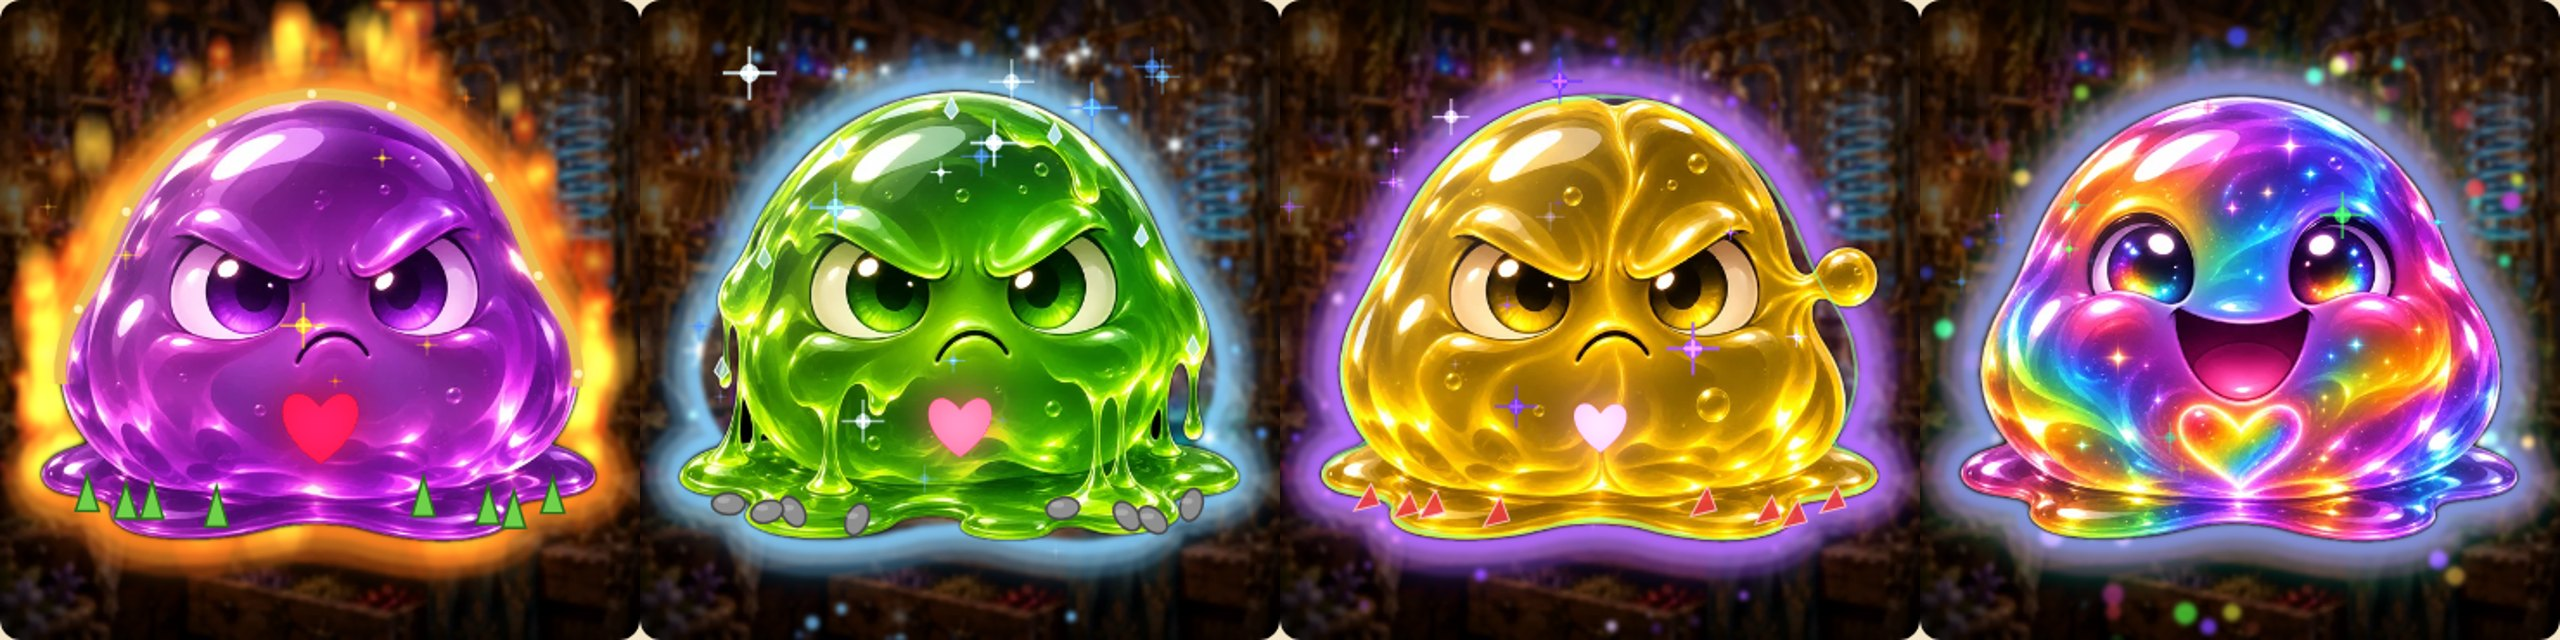
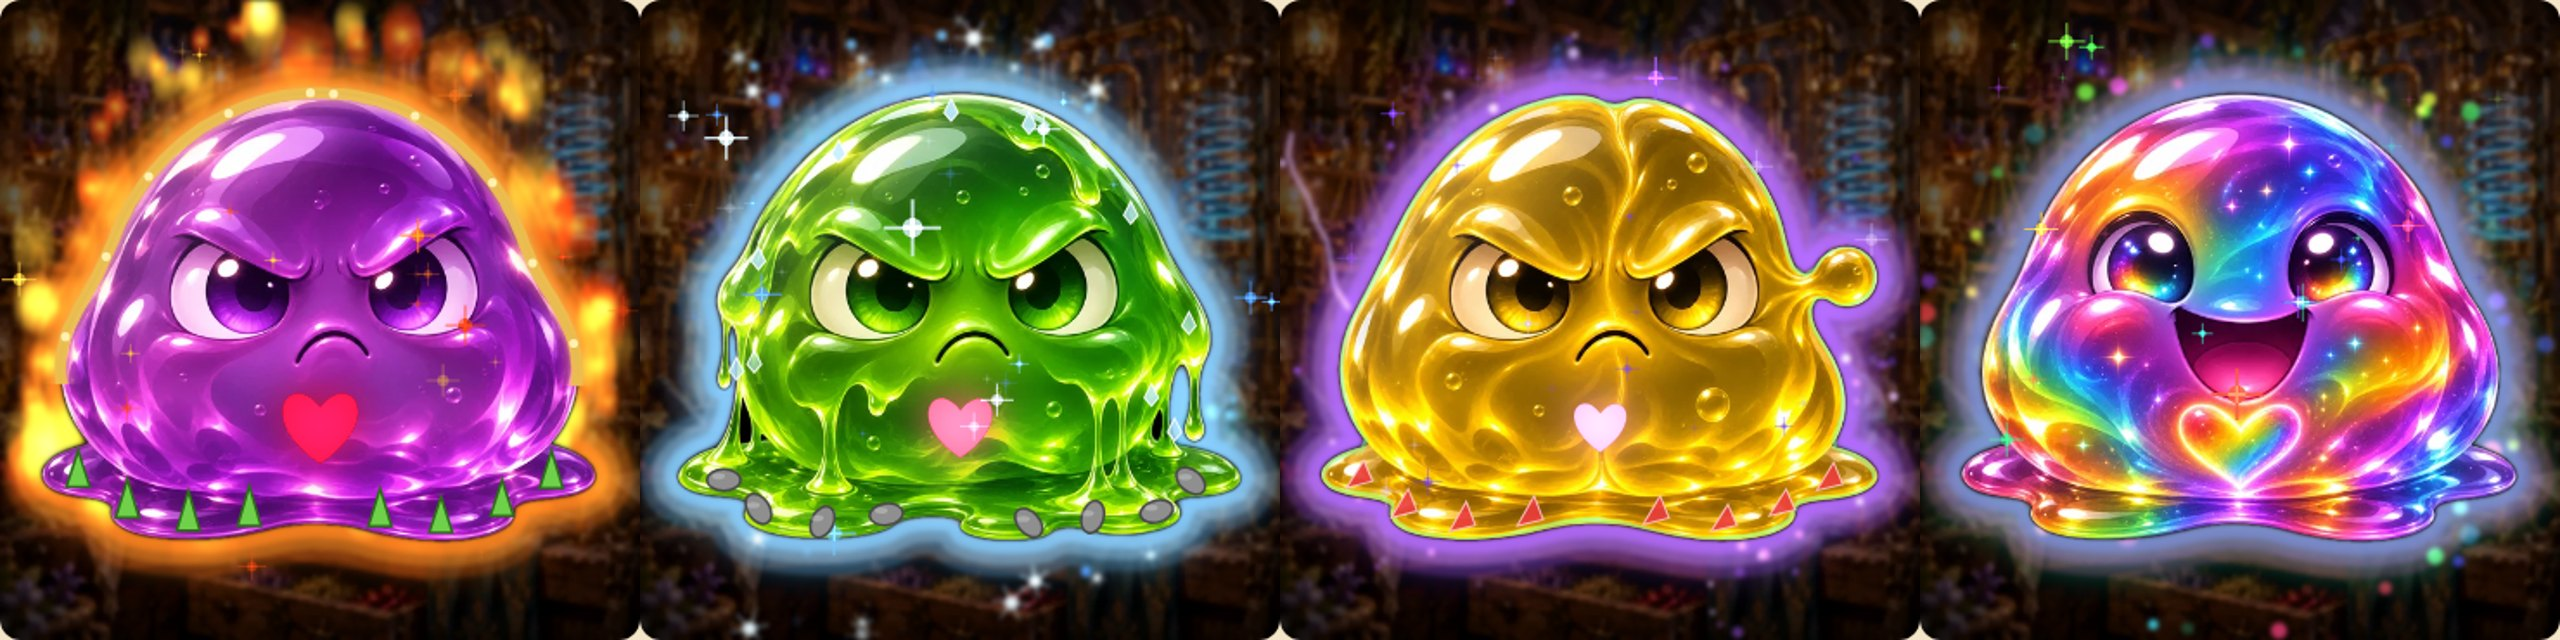
Zoltan's Flask: glow, rim and ichor follow each Flubb's own shape
Claude-Session: https://claude.ai/code/session_01QqMC3jV4Jm9bLjV1D99fiy

diff --git a/oneshots/this-and-that/flask-game/index.html b/oneshots/this-and-that/flask-game/index.html
@@ -104,6 +104,7 @@ const save=()=>{try{localStorage.setItem('zoltan-flask-v1',JSON.stringify(S))}ca
 
 const ORDER=['aura','essence','ichor','heart','BASE','FACE','skin','dust'];
 const ANIM={heart:'hrt'};
+const SILE={"bouncing":{"pts":[[0.4828,0.1391],[0.4688,0.1406],[0.4547,0.1422],[0.4406,0.1438],[0.4266,0.1469],[0.4125,0.15],[0.3984,0.1547],[0.3844,0.1594],[0.3703,0.1656],[0.3562,0.1719],[0.3422,0.1797],[0.3281,0.1875],[0.3141,0.1953],[0.3,0.2062],[0.2859,0.2172],[0.2719,0.2297],[0.2578,0.2438],[0.2453,0.2578],[0.2328,0.2719],[0.2234,0.2859],[0.2141,0.3],[0.2047,0.3141],[0.1984,0.3281],[0.1906,0.3422],[0.1844,0.3562],[0.1797,0.3703],[0.1734,0.3844],[0.1672,0.3984],[0.1609,0.4125],[0.1547,0.4266],[0.1469,0.4406],[0.1391,0.4547],[0.1312,0.4688],[0.1234,0.4828],[0.1172,0.4969],[0.1094,0.5109],[0.1047,0.525],[0.1016,0.5391],[0.0984,0.5531],[0.0969,0.5672],[0.0969,0.5812],[0.0984,0.5953],[0.1,0.6094],[0.1031,0.6234],[0.1078,0.6375],[0.1141,0.6516],[0.1219,0.6656],[0.1312,0.6797],[0.1344,0.6938],[0.1203,0.6984],[0.1062,0.7031],[0.0922,0.7109],[0.0781,0.7219],[0.0688,0.7359],[0.0703,0.75],[0.0812,0.7625],[0.0953,0.7703],[0.1094,0.7734],[0.1234,0.7766],[0.1375,0.7781],[0.1516,0.7797],[0.1656,0.7844],[0.1766,0.7953],[0.1781,0.8094],[0.1891,0.8219],[0.2031,0.8297],[0.2172,0.8344],[0.2312,0.8375],[0.2453,0.8391],[0.2594,0.8406],[0.2734,0.8422],[0.2875,0.8422],[0.3016,0.8422],[0.3156,0.8422],[0.3297,0.8422],[0.3438,0.8406],[0.3578,0.8391],[0.3719,0.8375],[0.3859,0.8344],[0.4,0.8312],[0.4141,0.8281],[0.4281,0.825],[0.4422,0.8219],[0.4562,0.8203],[0.4703,0.8188],[0.4844,0.8172],[0.4984,0.8172],[0.5125,0.8188],[0.5266,0.8188],[0.5406,0.8203],[0.5547,0.8234],[0.5688,0.8266],[0.5828,0.8312],[0.5969,0.8344],[0.6109,0.8359],[0.625,0.8391],[0.6391,0.8406],[0.6531,0.8422],[0.6672,0.8422],[0.6812,0.8438],[0.6953,0.8438],[0.7094,0.8422],[0.7234,0.8422],[0.7375,0.8391],[0.7516,0.8375],[0.7656,0.8328],[0.7797,0.8266],[0.7938,0.8172],[0.8,0.8031],[0.8031,0.7891],[0.8172,0.7828],[0.8312,0.7797],[0.8453,0.7781],[0.8594,0.7766],[0.8734,0.7734],[0.8875,0.7719],[0.9016,0.7672],[0.9156,0.7594],[0.925,0.7453],[0.9234,0.7312],[0.9125,0.7172],[0.8984,0.7062],[0.8844,0.7],[0.8703,0.6953],[0.8594,0.6875],[0.8703,0.6734],[0.8781,0.6594],[0.8844,0.6453],[0.8906,0.6312],[0.8938,0.6172],[0.8969,0.6031],[0.8969,0.5891],[0.8984,0.575],[0.8969,0.5609],[0.8953,0.5469],[0.8922,0.5328],[0.8875,0.5188],[0.8812,0.5047],[0.875,0.4906],[0.8672,0.4766],[0.8594,0.4625],[0.85,0.4484],[0.8422,0.4344],[0.8344,0.4203],[0.8281,0.4062],[0.8219,0.3922],[0.8156,0.3781],[0.8109,0.3641],[0.8047,0.35],[0.7984,0.3359],[0.7906,0.3219],[0.7844,0.3078],[0.775,0.2938],[0.7656,0.2797],[0.7547,0.2656],[0.7438,0.2516],[0.7297,0.2375],[0.7156,0.2234],[0.7016,0.2109],[0.6875,0.2],[0.6734,0.1906],[0.6594,0.1828],[0.6453,0.175],[0.6312,0.1672],[0.6172,0.1609],[0.6031,0.1562],[0.5891,0.1516],[0.575,0.1484],[0.5609,0.1453],[0.5469,0.1422],[0.5328,0.1406],[0.5188,0.1406],[0.5047,0.1391],[0.4906,0.1391]],"cx":0.4963,"cy":0.526},"sticky":{"pts":[[0.4828,0.1391],[0.4656,0.1406],[0.4484,0.1438],[0.4312,0.1469],[0.4141,0.15],[0.3969,0.1547],[0.3797,0.1609],[0.3625,0.1688],[0.3453,0.1781],[0.3281,0.1875],[0.3109,0.1984],[0.2938,0.2109],[0.2766,0.225],[0.2594,0.2406],[0.2438,0.2578],[0.2297,0.275],[0.2156,0.2922],[0.2031,0.3094],[0.1922,0.3266],[0.1828,0.3438],[0.175,0.3609],[0.1688,0.3781],[0.1594,0.3953],[0.1469,0.4125],[0.1344,0.4297],[0.125,0.4469],[0.1219,0.4641],[0.1234,0.4812],[0.1281,0.4984],[0.1312,0.5156],[0.1312,0.5328],[0.1312,0.55],[0.1281,0.5672],[0.1234,0.5844],[0.1266,0.6016],[0.1422,0.6],[0.1438,0.5828],[0.1406,0.5656],[0.1391,0.5484],[0.1391,0.5312],[0.1422,0.5141],[0.15,0.5203],[0.1531,0.5375],[0.1547,0.5547],[0.1531,0.5719],[0.1531,0.5891],[0.1516,0.6062],[0.15,0.6234],[0.1469,0.6406],[0.1422,0.6578],[0.1359,0.675],[0.1266,0.6922],[0.1109,0.7016],[0.0938,0.7094],[0.0766,0.7219],[0.0641,0.7391],[0.0672,0.7562],[0.0844,0.7672],[0.1016,0.7719],[0.1188,0.775],[0.1359,0.7766],[0.1531,0.7781],[0.1703,0.7859],[0.1656,0.8031],[0.175,0.8203],[0.1922,0.8297],[0.2094,0.8344],[0.2266,0.8375],[0.2438,0.8391],[0.2609,0.8406],[0.2781,0.8406],[0.2953,0.8406],[0.3125,0.8406],[0.3297,0.8391],[0.3469,0.8359],[0.3641,0.8328],[0.3812,0.8281],[0.3984,0.8188],[0.4156,0.8109],[0.4328,0.8078],[0.45,0.8062],[0.4672,0.8062],[0.4844,0.8078],[0.5,0.8156],[0.5078,0.8312],[0.525,0.8375],[0.5422,0.8406],[0.5594,0.8422],[0.5766,0.8422],[0.5938,0.8422],[0.6109,0.8406],[0.6281,0.8375],[0.6453,0.8281],[0.6625,0.8234],[0.6797,0.8234],[0.6969,0.8266],[0.7141,0.8312],[0.7312,0.8328],[0.7484,0.8328],[0.7656,0.8328],[0.7828,0.8312],[0.8,0.8281],[0.8172,0.8219],[0.8344,0.8125],[0.8406,0.7953],[0.8375,0.7781],[0.8547,0.7734],[0.8719,0.7734],[0.8891,0.7703],[0.9062,0.7672],[0.9234,0.7609],[0.9328,0.7438],[0.925,0.7266],[0.9078,0.7125],[0.8906,0.7047],[0.8734,0.7],[0.8562,0.6953],[0.8391,0.6922],[0.8281,0.6781],[0.8234,0.6609],[0.8219,0.6438],[0.8219,0.6266],[0.825,0.6094],[0.8281,0.5922],[0.8328,0.575],[0.8469,0.5703],[0.8531,0.5875],[0.8562,0.6047],[0.8562,0.6219],[0.8531,0.6391],[0.8484,0.6562],[0.8469,0.6734],[0.8609,0.6859],[0.8766,0.675],[0.875,0.6578],[0.8703,0.6406],[0.8688,0.6234],[0.8688,0.6062],[0.8703,0.5891],[0.8734,0.5719],[0.8797,0.5547],[0.8859,0.5375],[0.8859,0.5203],[0.8844,0.5031],[0.8781,0.4859],[0.8703,0.4688],[0.8609,0.4516],[0.8484,0.4344],[0.8375,0.4172],[0.8281,0.4],[0.8188,0.3828],[0.8109,0.3656],[0.8031,0.3484],[0.7953,0.3312],[0.7859,0.3141],[0.775,0.2969],[0.7641,0.2797],[0.75,0.2625],[0.7344,0.2453],[0.7172,0.2281],[0.7,0.2125],[0.6828,0.1984],[0.6656,0.1875],[0.6484,0.1766],[0.6312,0.1688],[0.6141,0.1609],[0.5969,0.1547],[0.5797,0.15],[0.5625,0.1453],[0.5453,0.1422],[0.5281,0.1406],[0.5109,0.1391],[0.4938,0.1391]],"cx":0.4967,"cy":0.5239},"dividing":{"pts":[[0.4375,0.1422],[0.4219,0.1453],[0.4062,0.15],[0.3906,0.1547],[0.375,0.1594],[0.3594,0.1672],[0.3438,0.175],[0.3281,0.1828],[0.3125,0.1938],[0.2969,0.2047],[0.2812,0.2188],[0.2656,0.2328],[0.2516,0.2484],[0.2391,0.2641],[0.2266,0.2797],[0.2156,0.2953],[0.2062,0.3109],[0.1969,0.3266],[0.1891,0.3422],[0.1812,0.3578],[0.1734,0.3734],[0.1672,0.3891],[0.1594,0.4047],[0.1516,0.4203],[0.1438,0.4359],[0.1359,0.4516],[0.1281,0.4672],[0.1203,0.4828],[0.1125,0.4984],[0.1062,0.5141],[0.1016,0.5297],[0.0984,0.5453],[0.0969,0.5609],[0.0953,0.5766],[0.0969,0.5922],[0.0984,0.6078],[0.1016,0.6234],[0.1078,0.6391],[0.1141,0.6547],[0.1234,0.6703],[0.1344,0.6859],[0.1297,0.6984],[0.1141,0.7031],[0.0984,0.7094],[0.0828,0.7188],[0.0703,0.7328],[0.0688,0.7484],[0.0812,0.7641],[0.0969,0.7703],[0.1125,0.775],[0.1281,0.7766],[0.1438,0.7797],[0.1594,0.7828],[0.175,0.7906],[0.175,0.8062],[0.1844,0.8219],[0.2,0.8312],[0.2156,0.8359],[0.2312,0.8391],[0.2469,0.8406],[0.2625,0.8422],[0.2781,0.8438],[0.2938,0.8438],[0.3094,0.8438],[0.325,0.8422],[0.3406,0.8406],[0.3562,0.8391],[0.3719,0.8359],[0.3875,0.8344],[0.4031,0.8297],[0.4188,0.8266],[0.4344,0.8234],[0.45,0.8203],[0.4656,0.8188],[0.4812,0.8172],[0.4969,0.8172],[0.5125,0.8188],[0.5281,0.8188],[0.5438,0.8219],[0.5594,0.825],[0.575,0.8281],[0.5906,0.8312],[0.6062,0.8344],[0.6219,0.8375],[0.6375,0.8391],[0.6531,0.8422],[0.6688,0.8422],[0.6844,0.8438],[0.7,0.8422],[0.7156,0.8422],[0.7312,0.8406],[0.7469,0.8375],[0.7625,0.8344],[0.7781,0.8266],[0.7938,0.8172],[0.8016,0.8016],[0.8078,0.7875],[0.8234,0.7828],[0.8391,0.7797],[0.8547,0.7781],[0.8703,0.7766],[0.8859,0.7734],[0.9016,0.7688],[0.9172,0.7594],[0.9281,0.7453],[0.925,0.7297],[0.9125,0.7156],[0.8969,0.7062],[0.8812,0.7],[0.8656,0.6953],[0.8656,0.6812],[0.8719,0.6656],[0.8766,0.65],[0.8781,0.6344],[0.8781,0.6188],[0.8766,0.6031],[0.8734,0.5875],[0.8672,0.5719],[0.8609,0.5562],[0.8516,0.5406],[0.8422,0.525],[0.8328,0.5094],[0.8281,0.4938],[0.8266,0.4781],[0.8344,0.4625],[0.85,0.4625],[0.8656,0.4719],[0.8812,0.4734],[0.8969,0.4703],[0.9125,0.4609],[0.9234,0.4453],[0.9266,0.4297],[0.925,0.4141],[0.9188,0.3984],[0.9031,0.3844],[0.8875,0.3797],[0.8719,0.3797],[0.8562,0.3844],[0.8406,0.3969],[0.8297,0.4125],[0.8156,0.4219],[0.8,0.4109],[0.7938,0.3953],[0.7891,0.3797],[0.7844,0.3641],[0.7812,0.3484],[0.7766,0.3328],[0.7703,0.3172],[0.7625,0.3016],[0.7547,0.2859],[0.7453,0.2703],[0.7344,0.2547],[0.7219,0.2391],[0.7078,0.2234],[0.6922,0.2078],[0.6766,0.1953],[0.6609,0.1844],[0.6453,0.175],[0.6297,0.1656],[0.6141,0.1578],[0.5984,0.1531],[0.5828,0.1484],[0.5672,0.1469],[0.5516,0.1469],[0.5359,0.1516],[0.5203,0.1547],[0.5047,0.1516],[0.4891,0.1453],[0.4734,0.1422],[0.4578,0.1422],[0.4422,0.1422]],"cx":0.4937,"cy":0.5262}};
 const SIL={"ooze":{"pts":[[0.4844,0.1391],[0.4672,0.1406],[0.45,0.1438],[0.4328,0.1469],[0.4156,0.15],[0.3984,0.1547],[0.3812,0.1609],[0.3641,0.1688],[0.3469,0.1766],[0.3297,0.1859],[0.3125,0.1969],[0.2953,0.2094],[0.2781,0.2234],[0.2609,0.2406],[0.2453,0.2578],[0.2312,0.275],[0.2188,0.2922],[0.2078,0.3094],[0.1984,0.3266],[0.1906,0.3438],[0.1828,0.3609],[0.1766,0.3781],[0.1688,0.3953],[0.1609,0.4125],[0.1531,0.4297],[0.1438,0.4469],[0.1344,0.4641],[0.125,0.4812],[0.1156,0.4984],[0.1094,0.5156],[0.1031,0.5328],[0.1,0.55],[0.0969,0.5672],[0.0969,0.5844],[0.0984,0.6016],[0.1031,0.6188],[0.1078,0.6359],[0.1156,0.6531],[0.125,0.6703],[0.1375,0.6875],[0.125,0.6969],[0.1078,0.7031],[0.0906,0.7109],[0.0734,0.7266],[0.0688,0.7438],[0.0781,0.7609],[0.0953,0.7703],[0.1125,0.7734],[0.1297,0.7766],[0.1469,0.7797],[0.1641,0.7828],[0.1766,0.7969],[0.1797,0.8141],[0.1969,0.8266],[0.2141,0.8344],[0.2312,0.8375],[0.2484,0.8406],[0.2656,0.8422],[0.2828,0.8422],[0.3,0.8422],[0.3172,0.8422],[0.3344,0.8406],[0.3516,0.8391],[0.3688,0.8375],[0.3859,0.8344],[0.4031,0.8297],[0.4203,0.8266],[0.4375,0.8219],[0.4547,0.8203],[0.4719,0.8188],[0.4891,0.8172],[0.5062,0.8172],[0.5234,0.8188],[0.5406,0.8203],[0.5578,0.8234],[0.575,0.8281],[0.5922,0.8328],[0.6094,0.8359],[0.6266,0.8391],[0.6438,0.8406],[0.6609,0.8422],[0.6781,0.8438],[0.6953,0.8438],[0.7125,0.8422],[0.7297,0.8406],[0.7469,0.8375],[0.7641,0.8328],[0.7812,0.825],[0.7969,0.8125],[0.8,0.7953],[0.8141,0.7828],[0.8312,0.7797],[0.8484,0.7766],[0.8656,0.775],[0.8828,0.7719],[0.9,0.7672],[0.9172,0.7578],[0.925,0.7406],[0.9188,0.7234],[0.9016,0.7094],[0.8844,0.7],[0.8672,0.6938],[0.8625,0.6828],[0.875,0.6656],[0.8828,0.6484],[0.8891,0.6312],[0.8938,0.6141],[0.8969,0.5969],[0.8984,0.5797],[0.8969,0.5625],[0.8938,0.5453],[0.8906,0.5281],[0.8844,0.5109],[0.8766,0.4938],[0.8672,0.4766],[0.8562,0.4594],[0.8453,0.4422],[0.8359,0.425],[0.8281,0.4078],[0.8203,0.3906],[0.8141,0.3734],[0.8062,0.3562],[0.8,0.3391],[0.7906,0.3219],[0.7812,0.3047],[0.7703,0.2875],[0.7594,0.2703],[0.7453,0.2531],[0.7281,0.2359],[0.7109,0.2188],[0.6938,0.2047],[0.6766,0.1938],[0.6594,0.1828],[0.6422,0.1734],[0.625,0.1656],[0.6078,0.1578],[0.5906,0.1531],[0.5734,0.1484],[0.5562,0.1438],[0.5391,0.1422],[0.5219,0.1406],[0.5047,0.1391],[0.4875,0.1391]],"cx":0.4963,"cy":0.526,"top":0.1391,"bot":0.8438,"l":0.0688,"r":0.925},"flask":{"pts":[[0.475,0.1279],[0.46,0.1286],[0.445,0.1293],[0.43,0.1307],[0.415,0.1321],[0.4,0.1343],[0.385,0.1386],[0.37,0.1479],[0.365,0.1629],[0.3643,0.1779],[0.3686,0.1929],[0.3821,0.2043],[0.3964,0.2143],[0.4,0.2293],[0.4007,0.2443],[0.4007,0.2593],[0.4007,0.2743],[0.4007,0.2893],[0.4007,0.3043],[0.4007,0.3193],[0.4,0.3343],[0.3964,0.3493],[0.3886,0.3643],[0.38,0.3793],[0.3721,0.3943],[0.3636,0.4093],[0.355,0.4243],[0.3464,0.4393],[0.3379,0.4543],[0.3293,0.4693],[0.3214,0.4843],[0.3129,0.4993],[0.3043,0.5143],[0.2957,0.5293],[0.2879,0.5443],[0.2793,0.5593],[0.2707,0.5743],[0.2629,0.5893],[0.255,0.6043],[0.2464,0.6193],[0.2379,0.6343],[0.2293,0.6493],[0.2214,0.6643],[0.2136,0.6793],[0.2071,0.6943],[0.2029,0.7093],[0.2014,0.7243],[0.2014,0.7393],[0.205,0.7543],[0.2114,0.7693],[0.2214,0.7843],[0.2357,0.7986],[0.2507,0.8086],[0.2657,0.8157],[0.2807,0.8214],[0.2957,0.8257],[0.3107,0.8286],[0.3257,0.8307],[0.3407,0.8329],[0.3557,0.835],[0.3707,0.8364],[0.3857,0.8379],[0.4007,0.8386],[0.4157,0.8393],[0.4307,0.84],[0.4457,0.8407],[0.4607,0.8414],[0.4757,0.8414],[0.4907,0.8421],[0.5057,0.8421],[0.5207,0.8414],[0.5357,0.8414],[0.5507,0.8407],[0.5657,0.84],[0.5807,0.84],[0.5957,0.8386],[0.6107,0.8379],[0.6257,0.8364],[0.6407,0.835],[0.6557,0.8336],[0.6707,0.8314],[0.6857,0.8293],[0.7007,0.8257],[0.7157,0.8221],[0.7307,0.8171],[0.7457,0.81],[0.7607,0.8007],[0.775,0.7871],[0.7857,0.7721],[0.7929,0.7571],[0.7964,0.7421],[0.7979,0.7271],[0.7964,0.7121],[0.7921,0.6971],[0.7871,0.6821],[0.78,0.6671],[0.7714,0.6521],[0.7636,0.6371],[0.755,0.6221],[0.7464,0.6071],[0.7379,0.5921],[0.7293,0.5771],[0.7207,0.5621],[0.7121,0.5471],[0.7036,0.5321],[0.695,0.5171],[0.6864,0.5021],[0.6779,0.4871],[0.6693,0.4721],[0.6614,0.4571],[0.6536,0.4421],[0.645,0.4271],[0.6371,0.4121],[0.6293,0.3971],[0.6207,0.3821],[0.6129,0.3671],[0.6043,0.3521],[0.5993,0.3371],[0.5986,0.3221],[0.5986,0.3071],[0.5986,0.2921],[0.5986,0.2771],[0.5986,0.2621],[0.5986,0.2471],[0.5993,0.2321],[0.6021,0.2171],[0.6143,0.2057],[0.6293,0.1957],[0.6343,0.1807],[0.635,0.1657],[0.6307,0.1507],[0.6171,0.1393],[0.6021,0.135],[0.5871,0.1329],[0.5721,0.1314],[0.5571,0.13],[0.5421,0.1293],[0.5271,0.1286],[0.5121,0.1279],[0.4971,0.1279],[0.4821,0.1279]],"cx":0.4994,"cy":0.5548,"top":0.1279,"bot":0.8421}};
 function retry(im){const n=+(im.dataset.n||0)+1;im.dataset.n=n;if(n>5){im.style.visibility='hidden';return}
  const base=im.getAttribute('src').split('?')[0];setTimeout(()=>{im.src=base+'?r='+n+'-'+Date.now()},400*n)}
@@ -117,7 +118,7 @@ const FX=(()=>{const P=2.6;let S=null,raf=0;
  function pick(v,i,t){if(v==='rainbow')return null;const p=COL[v];return p[i%p.length]}
  function path(ctx,pts,W){ctx.beginPath();pts.forEach((p,i)=>i?ctx.lineTo(p[0]*W,p[1]*W):ctx.moveTo(p[0]*W,p[1]*W));ctx.closePath()}
  function attach(el,m,st){const b=el.querySelector('.fxb'),f=el.querySelector('.fxf'),l=el.querySelector('.fxl'),body=el.querySelector('.body');
-  S={el,m,st,b,f,l,body,heart:body.querySelector('img.hrt'),sil:SIL[m],parts:[],spark:[],bolts:[],lastBolt:0,t0:performance.now()};
+  S={el,m,st,b,f,l,body,heart:body.querySelector('img.hrt'),sil:m==='ooze'?(SILE[(st.essence&&st.essence!=='rainbow')?st.essence:'bouncing']):SIL[m],parts:[],spark:[],bolts:[],lastBolt:0,t0:performance.now()};
   size();seed();if(!raf)raf=requestAnimationFrame(loop)}
  function size(){if(!S)return;const r=S.el.getBoundingClientRect(),d=Math.min(2,devicePixelRatio||1);S.W=r.width;[S.b,S.f,S.l].forEach(c=>{c.width=r.width*d;c.height=r.height*d;c.getContext('2d').setTransform(d,0,0,d,0,0)})}
  addEventListener('resize',size);
@@ -214,8 +215,8 @@ const FX=(()=>{const P=2.6;let S=null,raf=0;
    for(const [x,y,o] of S.cry){const tw=.5+.5*Math.sin(t*3+o),r=W*.022;c.fillStyle=`rgba(190,235,255,${.55+.4*tw})`;c.strokeStyle='rgba(255,255,255,.9)';c.lineWidth=1;c.beginPath();c.moveTo(x*W,y*W-r);c.lineTo(x*W+r*.5,y*W);c.lineTo(x*W,y*W+r*.6);c.lineTo(x*W-r*.5,y*W);c.closePath();c.fill();c.stroke()}c.restore()}
   if(st.skin==='rainbow'&&!allR){c.save();c.lineWidth=W*.01;c.strokeStyle=rh(0);c.globalAlpha=.6;c.beginPath();S.sil.pts.forEach((q,i)=>i?c.lineTo(q[0]*W,q[1]*W):c.moveTo(q[0]*W,q[1]*W));c.closePath();c.stroke();c.restore()}
   // ichor, round the puddle
-  if(st.ichor&&st.ichor!=='rainbow'){c.save();const xs=[.14,.24,.34,.66,.76,.86,.2,.8];
-   xs.forEach((x,i)=>{const y=.80+((i*37)%5)*.006,k=1+.06*Math.sin(t*2+i);
+  if(st.ichor&&st.ichor!=='rainbow'){c.save();if(!S.ich){const ed=S.sil.pts.filter(q=>q[1]>0.74).sort((p,q)=>p[0]-q[0]);S.ich=[.06,.16,.27,.38,.62,.73,.84,.94].map(f=>{const q=ed[Math.floor(f*(ed.length-1))];return [q[0]+(0.5-q[0])*.04,q[1]-.012]})}
+   S.ich.forEach(([x,y],i)=>{const k=1+.06*Math.sin(t*2+i);
     if(st.ichor==='spikey'){c.fillStyle='#6fd04a';c.strokeStyle='#2e6a1c';c.lineWidth=1.5;c.beginPath();c.moveTo((x-.018)*W,y*W);c.lineTo(x*W,(y-.06*k)*W);c.lineTo((x+.018)*W,y*W);c.closePath();c.fill();c.stroke()}
     else if(st.ichor==='sharp'){c.fillStyle='rgba(235,60,60,.9)';c.strokeStyle='rgba(255,200,200,.9)';c.lineWidth=1;c.beginPath();c.moveTo((x-.02)*W,y*W);c.lineTo((x+.006)*W,(y-.045*k)*W);c.lineTo((x+.02)*W,(y-.01)*W);c.closePath();c.fill();c.stroke()}
     else{c.fillStyle='#8f8f8f';c.strokeStyle='#4a4a4a';c.lineWidth=1.5;c.beginPath();c.ellipse(x*W,(y-.012)*W,W*.026,W*.017,i,0,7);c.fill();c.stroke();c.fillStyle='rgba(255,255,255,.25)';c.beginPath();c.ellipse((x-.008)*W,(y-.018)*W,W*.01,W*.005,0,0,7);c.fill()}});c.restore()}
